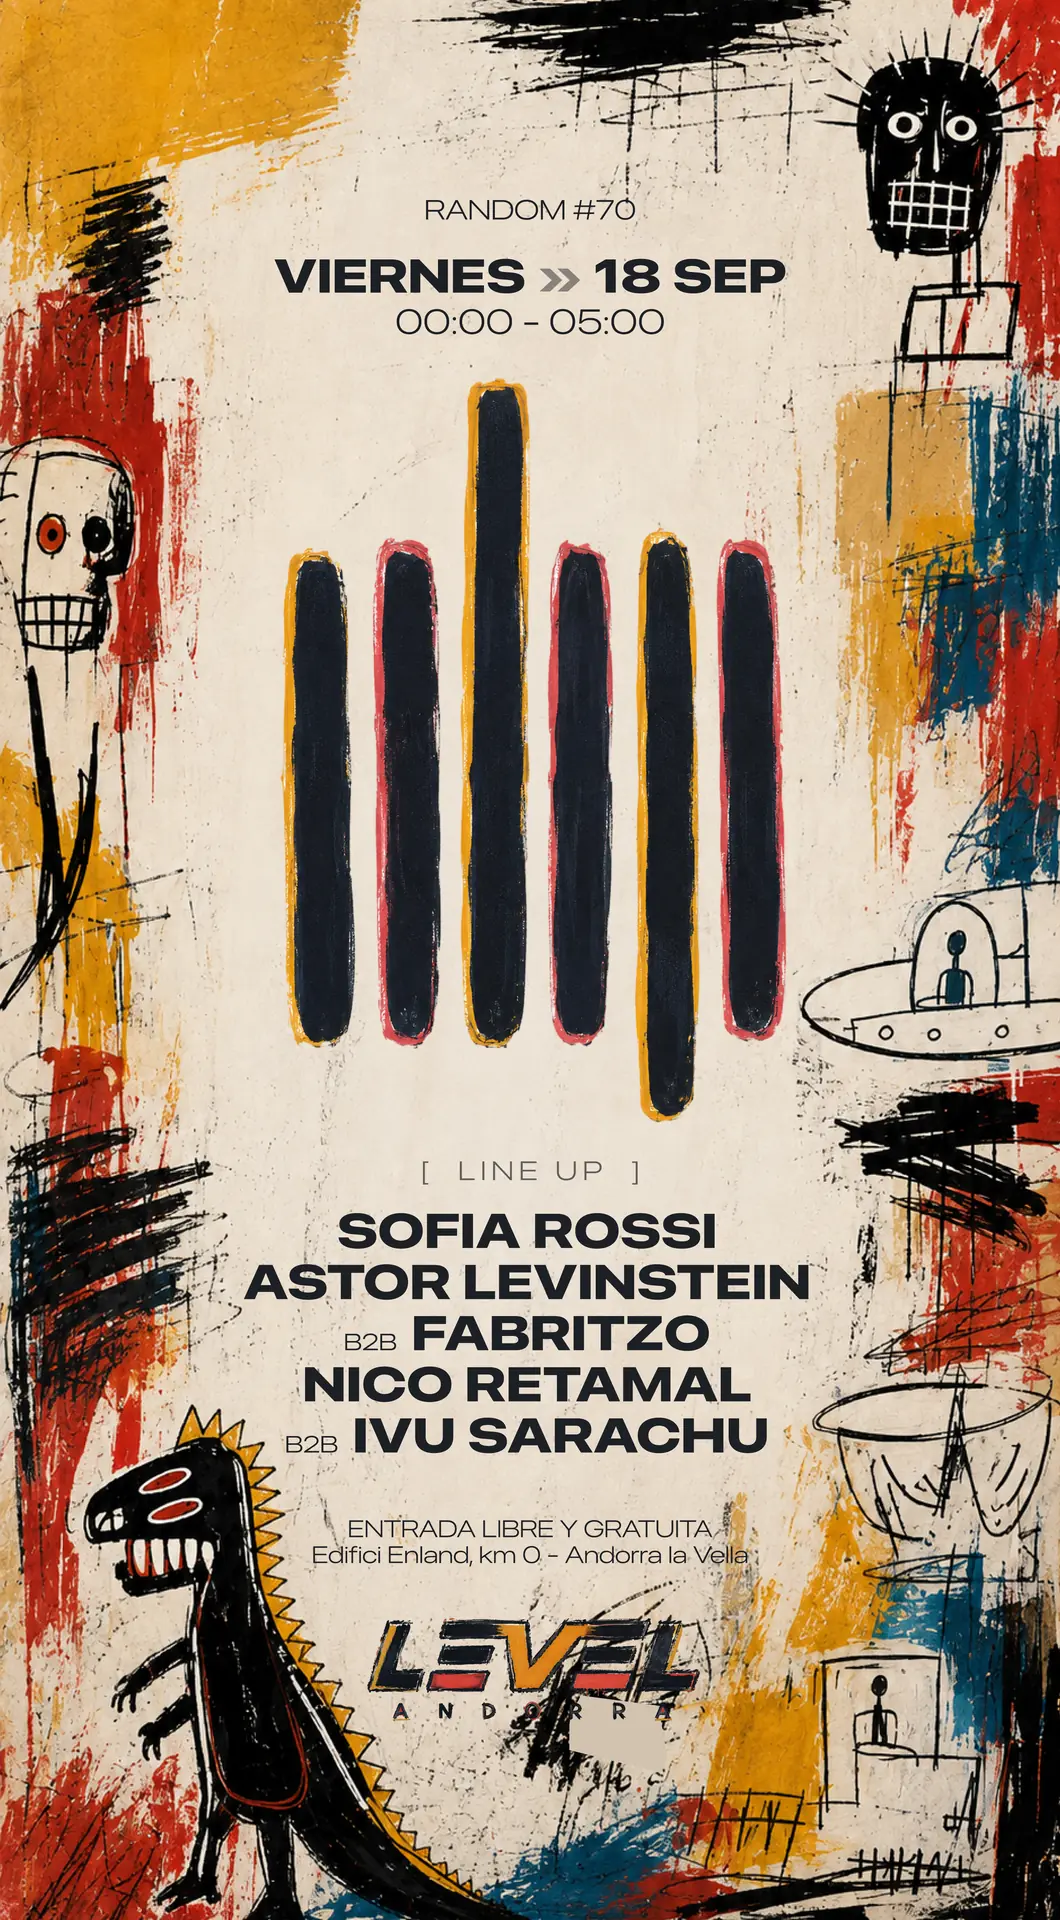
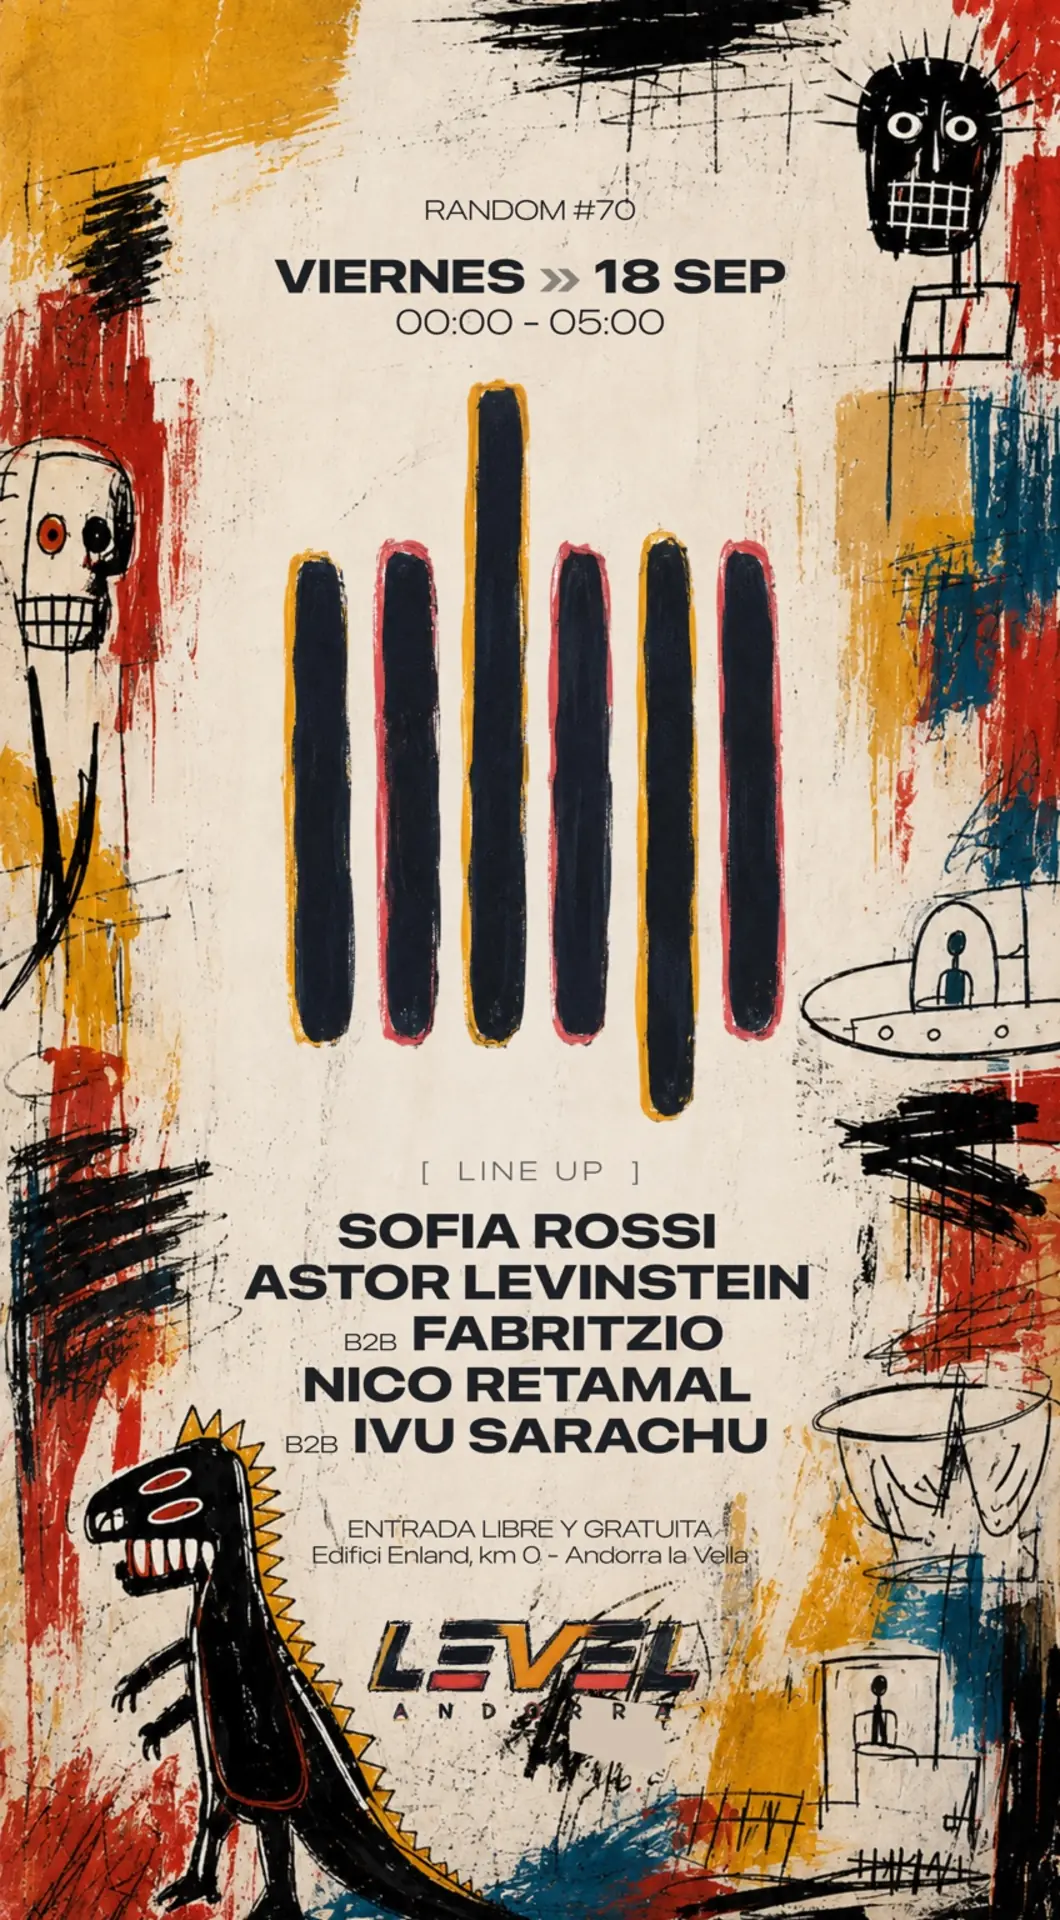
Correct Fabritzio spelling on RANDOM 70 flyer

diff --git a/docs/ediciones/70-basquiat/index.html b/docs/ediciones/70-basquiat/index.html
@@ -11,7 +11,7 @@
     <meta property="og:url" content="https://randomelectronic.com/ediciones/70-basquiat/" />
     <meta property="og:title" content="RANDOM #70 · BASQUIAT — 18 Septiembre 2026" />
     <meta property="og:description" content="RANDOM #70 · BASQUIAT. VIERNES 18 SEPTIEMBRE 2026 en LEVEL. Line-up: SOFIA ROSSI · FABRITZIO B2B ASTOR LEVINSTEIN · NICO RETAMAL B2B IVU SARACHU." />
-    <meta property="og:image" content="https://randomelectronic.com/assets/random-70.webp?v=20260902-2" />
+    <meta property="og:image" content="https://randomelectronic.com/assets/random-70.webp?v=20260902-3" />
     <meta name="twitter:card" content="summary_large_image" />
     <link rel="icon" href="/assets/favicon.ico" sizes="16x16 32x32 48x48" />
     <link rel="apple-touch-icon" href="/assets/apple-touch-icon.png" />
@@ -19,7 +19,7 @@
     <link rel="preconnect" href="https://fonts.gstatic.com" crossorigin />
     <link rel="stylesheet" href="https://fonts.googleapis.com/css2?family=Host+Grotesk:wght@300..800&display=swap" />
     <link rel="stylesheet" href="/edition.css?v=20260827-2" />
-    <script type="application/ld+json">{"@context":"https://schema.org","@graph":[{"@type":"Organization","@id":"https://randomelectronic.com/#organization","name":"RANDOM","url":"https://randomelectronic.com/","logo":"https://randomelectronic.com/assets/random-symbol.png","foundingDate":"2018","email":"randomelectromusic@gmail.com","sameAs":["https://www.instagram.com/random.electronic/"]},{"@type":"Event","@id":"https://randomelectronic.com/ediciones/70-basquiat/#event","name":"RANDOM #70 · BASQUIAT","url":"https://randomelectronic.com/ediciones/70-basquiat/","image":["https://randomelectronic.com/assets/random-70.webp?v=20260902-2"],"description":"RANDOM #70 · BASQUIAT. VIERNES 18 SEPTIEMBRE 2026 en LEVEL. Line-up: SOFIA ROSSI · FABRITZIO B2B ASTOR LEVINSTEIN · NICO RETAMAL B2B IVU SARACHU.","eventAttendanceMode":"https://schema.org/OfflineEventAttendanceMode","eventStatus":"https://schema.org/EventScheduled","startDate":"2026-09-19T00:00:00+02:00","location":{"@type":"Place","name":"LEVEL","address":"Edifici Enland, km 0 · Andorra la Vella"},"organizer":{"@id":"https://randomelectronic.com/#organization"},"endDate":"2026-09-19T05:00:00+02:00","performer":[{"@type":"PerformingGroup","name":"SOFIA ROSSI"},{"@type":"PerformingGroup","name":"FABRITZIO B2B ASTOR LEVINSTEIN"},{"@type":"PerformingGroup","name":"NICO RETAMAL B2B IVU SARACHU"}],"isAccessibleForFree":true}]}</script>
+    <script type="application/ld+json">{"@context":"https://schema.org","@graph":[{"@type":"Organization","@id":"https://randomelectronic.com/#organization","name":"RANDOM","url":"https://randomelectronic.com/","logo":"https://randomelectronic.com/assets/random-symbol.png","foundingDate":"2018","email":"randomelectromusic@gmail.com","sameAs":["https://www.instagram.com/random.electronic/"]},{"@type":"Event","@id":"https://randomelectronic.com/ediciones/70-basquiat/#event","name":"RANDOM #70 · BASQUIAT","url":"https://randomelectronic.com/ediciones/70-basquiat/","image":["https://randomelectronic.com/assets/random-70.webp?v=20260902-3"],"description":"RANDOM #70 · BASQUIAT. VIERNES 18 SEPTIEMBRE 2026 en LEVEL. Line-up: SOFIA ROSSI · FABRITZIO B2B ASTOR LEVINSTEIN · NICO RETAMAL B2B IVU SARACHU.","eventAttendanceMode":"https://schema.org/OfflineEventAttendanceMode","eventStatus":"https://schema.org/EventScheduled","startDate":"2026-09-19T00:00:00+02:00","location":{"@type":"Place","name":"LEVEL","address":"Edifici Enland, km 0 · Andorra la Vella"},"organizer":{"@id":"https://randomelectronic.com/#organization"},"endDate":"2026-09-19T05:00:00+02:00","performer":[{"@type":"PerformingGroup","name":"SOFIA ROSSI"},{"@type":"PerformingGroup","name":"FABRITZIO B2B ASTOR LEVINSTEIN"},{"@type":"PerformingGroup","name":"NICO RETAMAL B2B IVU SARACHU"}],"isAccessibleForFree":true}]}</script>
     <title>RANDOM #70 · BASQUIAT — 18 Septiembre 2026</title>
   </head>
   <body>
@@ -30,7 +30,7 @@
     </header>
     <main id="contenido" class="edition-page">
       <div class="edition-flyer">
-        <img src="/assets/random-70.webp?v=20260902-2" alt="Flyer de RANDOM #70 · BASQUIAT" />
+        <img src="/assets/random-70.webp?v=20260902-3" alt="Flyer de RANDOM #70 · BASQUIAT" />
       </div>
       <article class="edition-content">
         <p class="edition-kicker">RANDOM #70</p>

diff --git a/docs/index.html b/docs/index.html
@@ -1139,7 +1139,7 @@
           >
             <div class="flyer3d" data-card>
               <div class="flyer3d-face flyer3d-face--front">
-                <img src="assets/random-70.webp?v=20260902-2" data-share-src="assets/share/random-70.jpg?v=20260902-2" alt="Flyer oficial de RANDOM #70, Basquiat" loading="lazy" />
+                <img src="assets/random-70.webp?v=20260902-3" data-share-src="assets/share/random-70.jpg?v=20260902-3" alt="Flyer oficial de RANDOM #70, Basquiat" loading="lazy" />
                 <span class="flyer3d-edition">#70</span>
               </div>
               <div class="flyer3d-face flyer3d-face--back">
